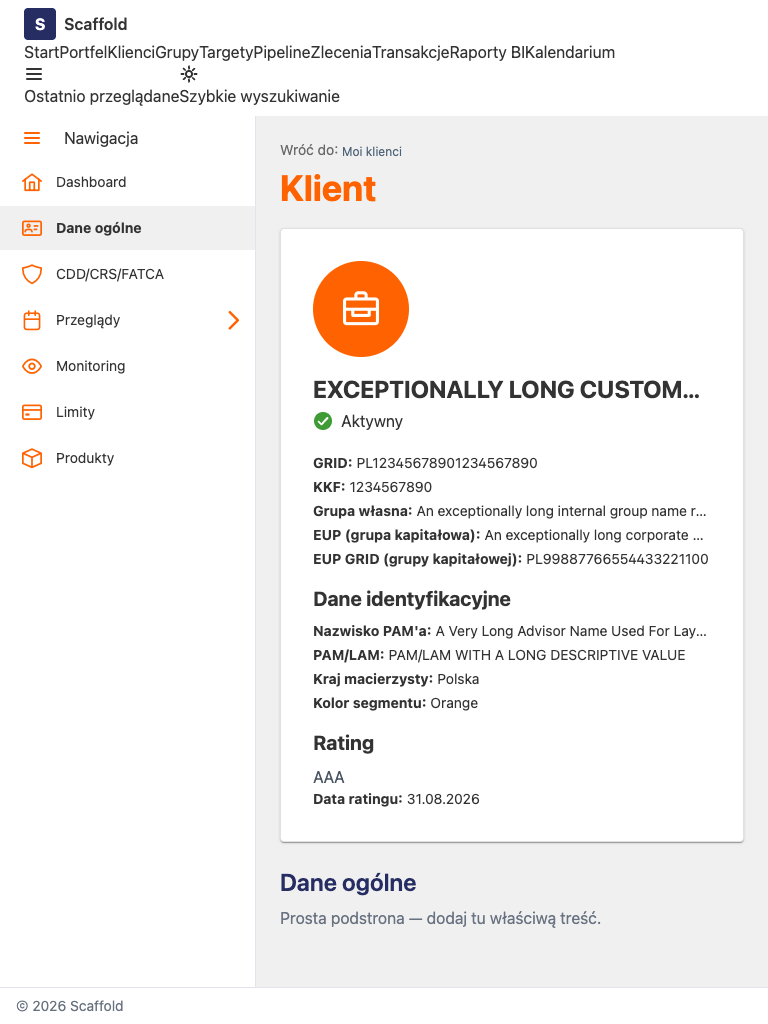
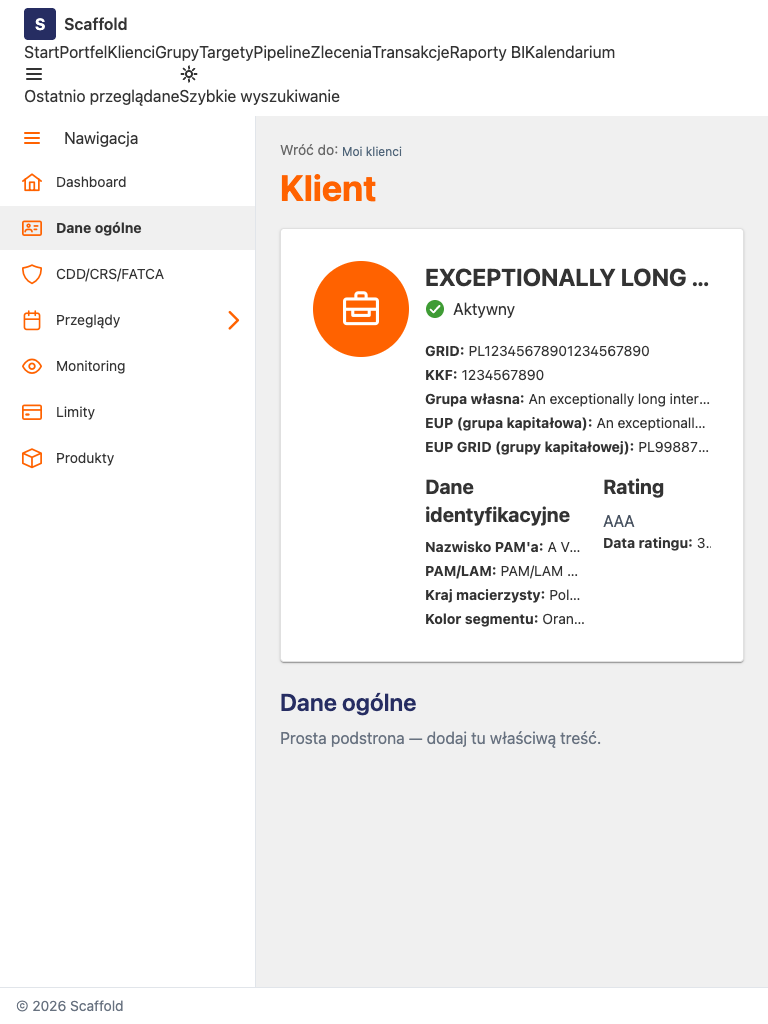
fix(customers): keep summary panel compact on tablets
Move the horizontal identity and detail layout to the medium breakpoint so the customer icon stays beside the content and Rating remains aligned with Identification data. Preserve the desktop proportions and shared loaded/skeleton geometry while avoiding multi-line labels at compact widths.

Changed region(s): [[0.375, 0.25, 0.9375, 0.7812], [0.3438, 0.8438, 0.5625, 0.9062], [0.5625, 0.875, 0.7812, 0.9062]]

diff --git a/src/ui/DataPanel/DataPanelLayout.tsx b/src/ui/DataPanel/DataPanelLayout.tsx
@@ -22,24 +22,26 @@ export const DataPanelLayout = forwardRef<HTMLDivElement, DataPanelLayoutProps>(
         ref={ref}
         className={twMerge(
           'grid min-w-0 grid-cols-1 items-start gap-4',
-          hasIcon ? 'lg:grid-cols-4 lg:gap-0' : 'lg:grid-cols-1',
+          hasIcon
+            ? 'md:grid-cols-[auto_minmax(0,1fr)] md:gap-y-0 lg:grid-cols-4 lg:gap-x-0'
+            : 'md:grid-cols-1',
           className,
         )}
         {...rest}
       >
         {hasIcon ? (
-          <div className="flex shrink-0 items-start justify-start lg:self-stretch lg:justify-center">
+          <div className="flex shrink-0 items-start justify-start md:self-stretch md:justify-center">
             {icon}
           </div>
         ) : null}
-        <div className={twMerge('min-w-0 space-y-4', hasIcon && 'lg:col-span-3')}>
+        <div className={twMerge('min-w-0 space-y-4', hasIcon && 'md:col-start-2 lg:col-span-3')}>
           {header ? <div className="min-w-0">{header}</div> : null}
           {summary ? (
-            <div className="grid min-w-0 grid-cols-1 gap-4 lg:grid-cols-2 lg:gap-x-8">
+            <div className="grid min-w-0 grid-cols-1 gap-4 lg:grid-cols-[minmax(0,3fr)_minmax(0,2fr)] lg:gap-x-8">
               <div className="min-w-0">{summary}</div>
             </div>
           ) : null}
-          <div className="grid min-w-0 grid-cols-1 gap-4 lg:grid-cols-2 lg:gap-x-8">
+          <div className="grid min-w-0 grid-cols-1 gap-4 md:grid-cols-[minmax(0,3fr)_minmax(0,2fr)] md:gap-x-4 lg:gap-x-8">
             <div className="min-w-0">{firstColumn}</div>
             <div className="min-w-0">{secondColumn}</div>
           </div>

diff --git a/src/ui/DataPanel/DataPanel.test.tsx b/src/ui/DataPanel/DataPanel.test.tsx
@@ -64,6 +64,9 @@ describe('DataPanel', () => {
 
     expect(screen.getByText('GRID').closest('dl')).toHaveTextContent('ACME');
     expect(screen.getByText('GRID').parentElement).toHaveTextContent('GRID:');
+    expect(screen.getByText('GRID').closest('dl')?.parentElement).toHaveClass(
+      'md:[&>dl]:grid-cols-[max-content_minmax(0,1fr)]',
+    );
     expect(screen.getByText('AAA').closest('section')).toHaveTextContent('Rating');
     expect(screen.getByText('AAA').closest('dl')).toBeNull();
     expect(screen.getByText('KKF').closest('dl')).toHaveTextContent('—');
@@ -72,8 +75,19 @@ describe('DataPanel', () => {
     expect(container.firstElementChild).toHaveClass(
       'grid',
       'grid-cols-1',
+      'md:grid-cols-[auto_minmax(0,1fr)]',
       'lg:grid-cols-4',
       'custom-panel',
+    );
+    const content = container.firstElementChild?.children.item(1);
+    expect(content).toHaveClass('md:col-start-2', 'lg:col-span-3');
+    expect(content?.children.item(1)).toHaveClass(
+      'grid-cols-1',
+      'lg:grid-cols-[minmax(0,3fr)_minmax(0,2fr)]',
+    );
+    expect(content?.children.item(2)).toHaveClass(
+      'grid-cols-1',
+      'md:grid-cols-[minmax(0,3fr)_minmax(0,2fr)]',
     );
     expect(screen.getByText('GRID').closest('section')).toBeNull();
   });
@@ -96,7 +110,7 @@ describe('DataPanel', () => {
     );
 
     expect(screen.getByText('GRID').closest('dl')).toHaveTextContent('—');
-    expect(container.firstElementChild).toHaveClass('lg:grid-cols-1');
+    expect(container.firstElementChild).toHaveClass('md:grid-cols-1');
   });
 
   it('keeps richer-value geometry when the value is empty', () => {

diff --git a/src/ui/DataPanel/DataPanelSkeleton.test.tsx b/src/ui/DataPanel/DataPanelSkeleton.test.tsx
@@ -72,6 +72,7 @@ describe('DataPanelSkeleton', () => {
     expect(container.querySelector('.h-6')).toBeInTheDocument();
     expect(container.querySelector('.custom-skeleton')).toHaveClass(
       'grid-cols-1',
+      'md:grid-cols-[auto_minmax(0,1fr)]',
       'lg:grid-cols-4',
     );
     for (const skeleton of container.querySelectorAll('[style*="width: 100%"]')) {

diff --git a/.design/contextual-sidebar-navigation/DESIGN_REVIEW.md b/.design/contextual-sidebar-navigation/DESIGN_REVIEW.md
@@ -17,7 +17,7 @@ unplanned accordion-navigation deviation.
 | `screenshots/review-customers-list-tablet-768.png`               | Tablet (768×1024)  | Responsive customer list                        |
 | `screenshots/review-customers-list-mobile-375.png`               | Mobile (375×812)   | Single-column customer list                     |
 | `screenshots/review-customer-general-desktop-1280.png`           | Desktop (1280×800) | Reference-aligned identity and detail hierarchy |
-| `screenshots/review-customer-general-tablet-768.png`             | Tablet (768×1024)  | Stacked identity, overview, and detail sections |
+| `screenshots/review-customer-general-tablet-768.png`             | Tablet (768×1024)  | Icon-left identity and paired detail sections   |
 | `screenshots/review-customer-general-mobile-375.png`             | Mobile (375×812)   | Single-column customer-detail reading order     |
 | `screenshots/review-customer-review-details-desktop-1280.png`    | Desktop (1280×800) | IWA return link and expanded L3 parent branch   |
 | `screenshots/review-customer-review-details-tablet-768.png`      | Tablet (768×1024)  | L3 route at compact desktop width               |
@@ -25,8 +25,8 @@ unplanned accordion-navigation deviation.
 | `screenshots/review-customer-general-collapsed-desktop-1280.png` | Desktop (1280×800) | Collapsed customer icon rail                    |
 | `screenshots/review-customer-long-loading-desktop-1280.png`      | Desktop (1280×800) | Delayed summary skeleton                        |
 | `screenshots/review-customer-long-loaded-desktop-1280.png`       | Desktop (1280×800) | Long summary values after loading               |
-| `screenshots/review-customer-long-loading-tablet-768.png`        | Tablet (768×1024)  | Delayed stacked skeleton                        |
-| `screenshots/review-customer-long-loaded-tablet-768.png`         | Tablet (768×1024)  | Long stacked values after loading               |
+| `screenshots/review-customer-long-loading-tablet-768.png`        | Tablet (768×1024)  | Delayed compact horizontal skeleton             |
+| `screenshots/review-customer-long-loaded-tablet-768.png`         | Tablet (768×1024)  | Long compact horizontal values after loading    |
 | `screenshots/review-customer-long-loading-mobile-375.png`        | Mobile (375×812)   | Delayed mobile skeleton                         |
 | `screenshots/review-customer-long-loaded-mobile-375.png`         | Mobile (375×812)   | Long mobile values after loading                |
 
@@ -46,7 +46,7 @@ hierarchy: name and status, an untitled overview, then aligned
 rating is a plain value, dates are localized, and the unsupported own-group
 action is absent. The implementation is restrained, token-based, and strongly
 reuses IWA. Browser measurements confirm zero card-height and card-top movement
-between skeleton and long loaded data at 1280, 768, and 375 pixels (406, 614,
+between skeleton and long loaded data at 1280, 768, and 375 pixels (406, 434,
 and 734 pixels respectively in both states).
 
 No application-owned blocker remains after the review fixes. The remaining
@@ -114,6 +114,11 @@ None remaining.
    definition terms with presentation colons, an explicit value-only field
    avoids repeating the rating label, and strict shared date formatting uses
    the active locale without normalizing invalid calendar values.
+8. The horizontal identity layout now starts at `md`: the hero icon remains on
+   the left, all customer text remains on the right, and Identification data
+   and Rating stay paired. Compact-width definition rows retain their complete
+   labels and truncate only values with native full-value titles, reducing the
+   reviewed 768-pixel card from 614 to 434 pixels without layout shift.
 
 ## What Works Well
 
@@ -122,9 +127,10 @@ None remaining.
   the selected tab is unambiguous, and secondary metadata remains quiet.
 - The L3 screenshot shows the correct parent highlight and child disclosure
   without losing either the customer shell or its list return action.
-- The panel genuinely renders an icon plus two data columns at desktop and
-  reorganizes into one readable column at compact widths without horizontal
-  document overflow.
+- The panel renders the icon to the left of its content and keeps the two detail
+  sections paired at desktop and tablet widths; only the mobile layout stacks
+  into the required semantic reading order, without horizontal document
+  overflow.
 - Spacing, borders, surfaces, icons, typography, and active states use existing
   Tailwind/design-system tokens; no feature-specific color or shadow values
   were introduced.

diff --git a/src/ui/README.md b/src/ui/README.md
@@ -112,6 +112,12 @@ while `renderValue` composes richer values such as an IWA `Label`. Rows use IWA
 instead of `labelKey` only when the titled section already provides the field's
 accessible context, avoiding a repeated label in the presentation.
 
+The layout stacks on mobile. From `md` upward, an optional icon stays beside
+the content and both detail sections remain side by side in a `3fr / 2fr`
+split. At `lg`, the icon reserves one quarter of the panel, the content uses
+the remaining three quarters, and the lead group aligns with the wider detail
+section.
+
 Keep the complete field list present for every data variant and pass that same
 config to `DataPanelSkeleton`, together with the column labels and icon/header
 flags. Use `iconSize="hero"` when the loaded panel uses the large hero icon;
